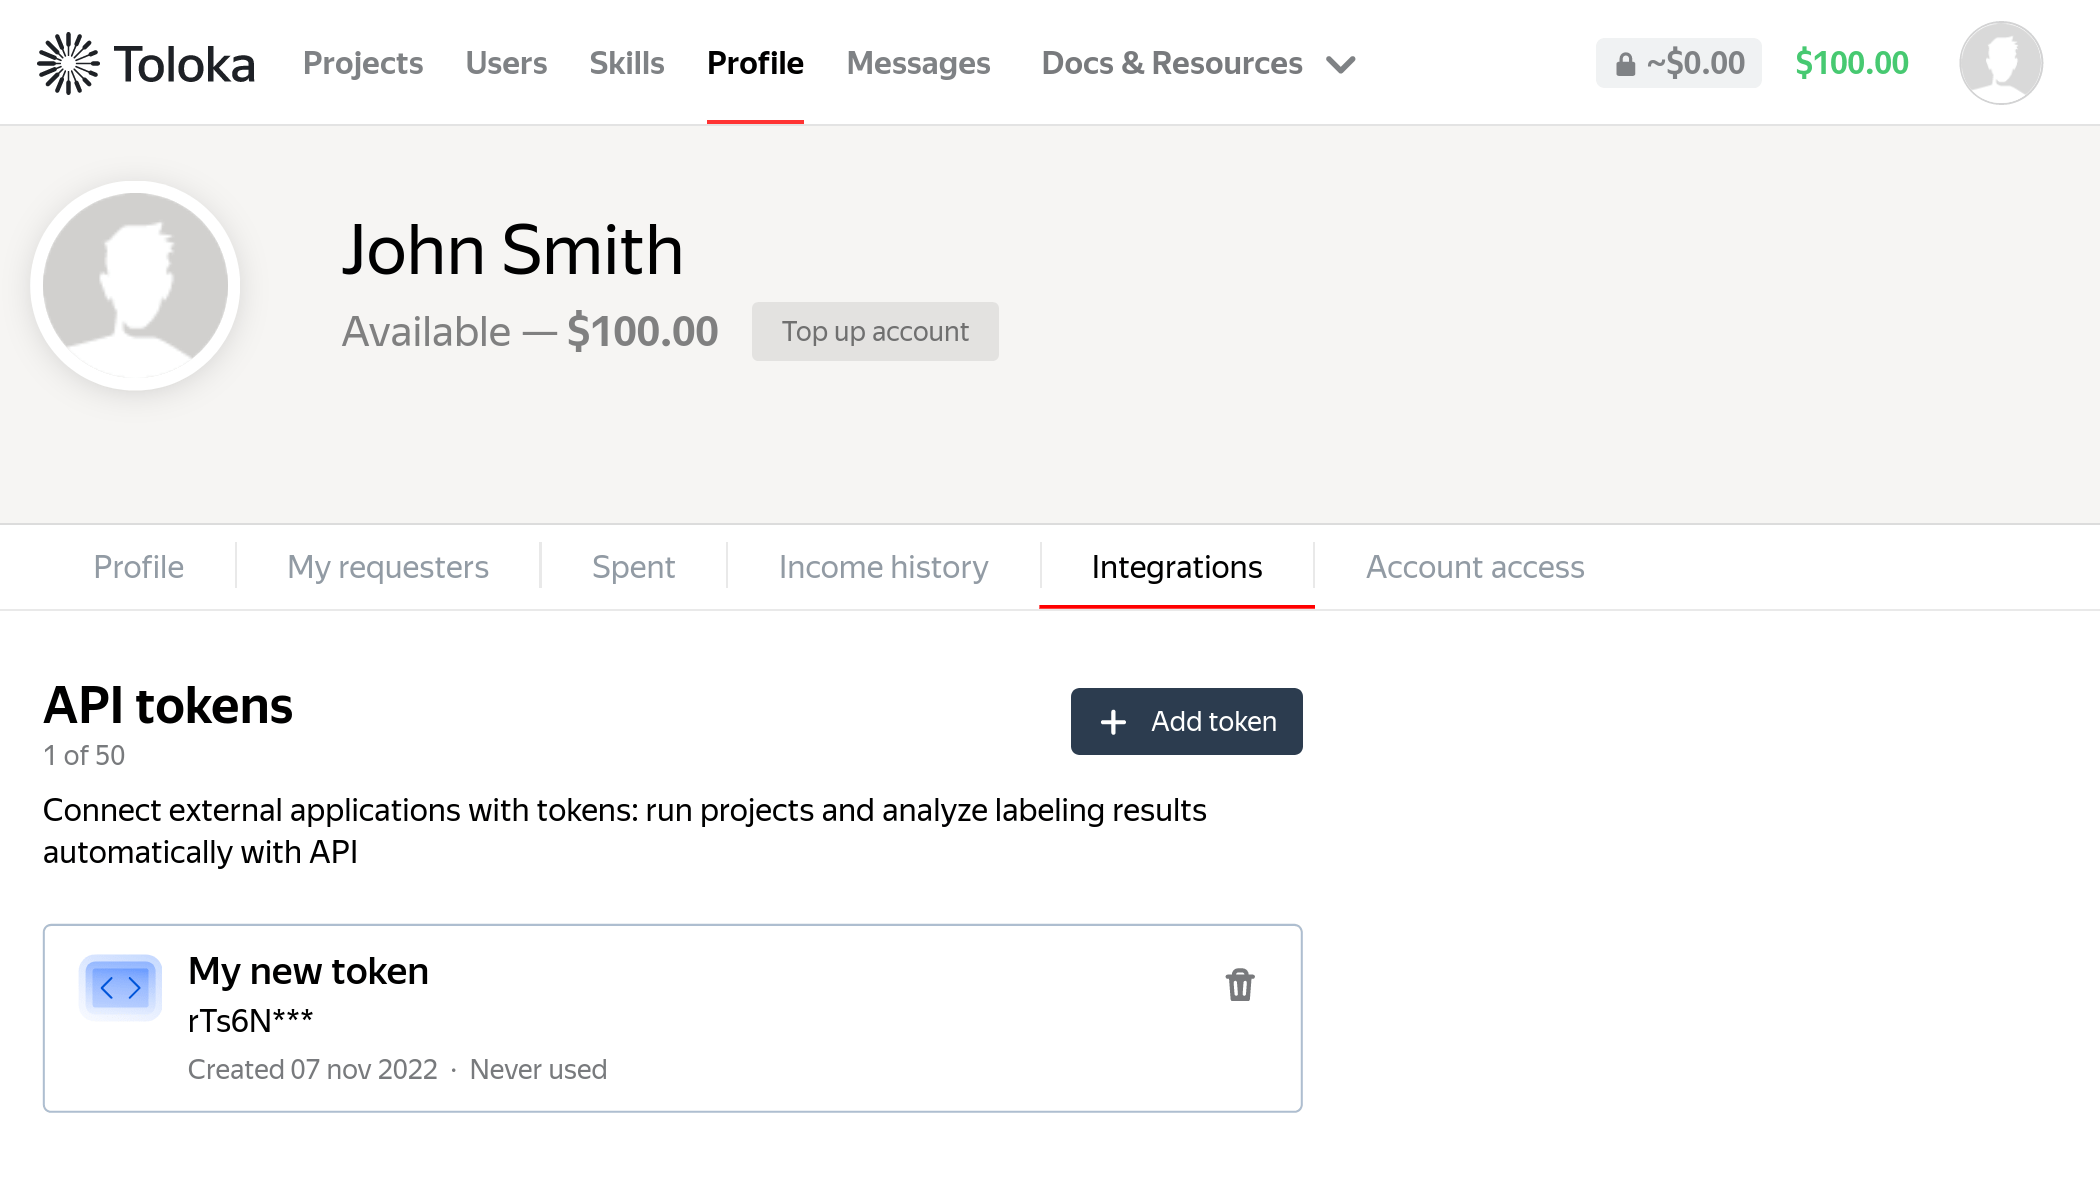
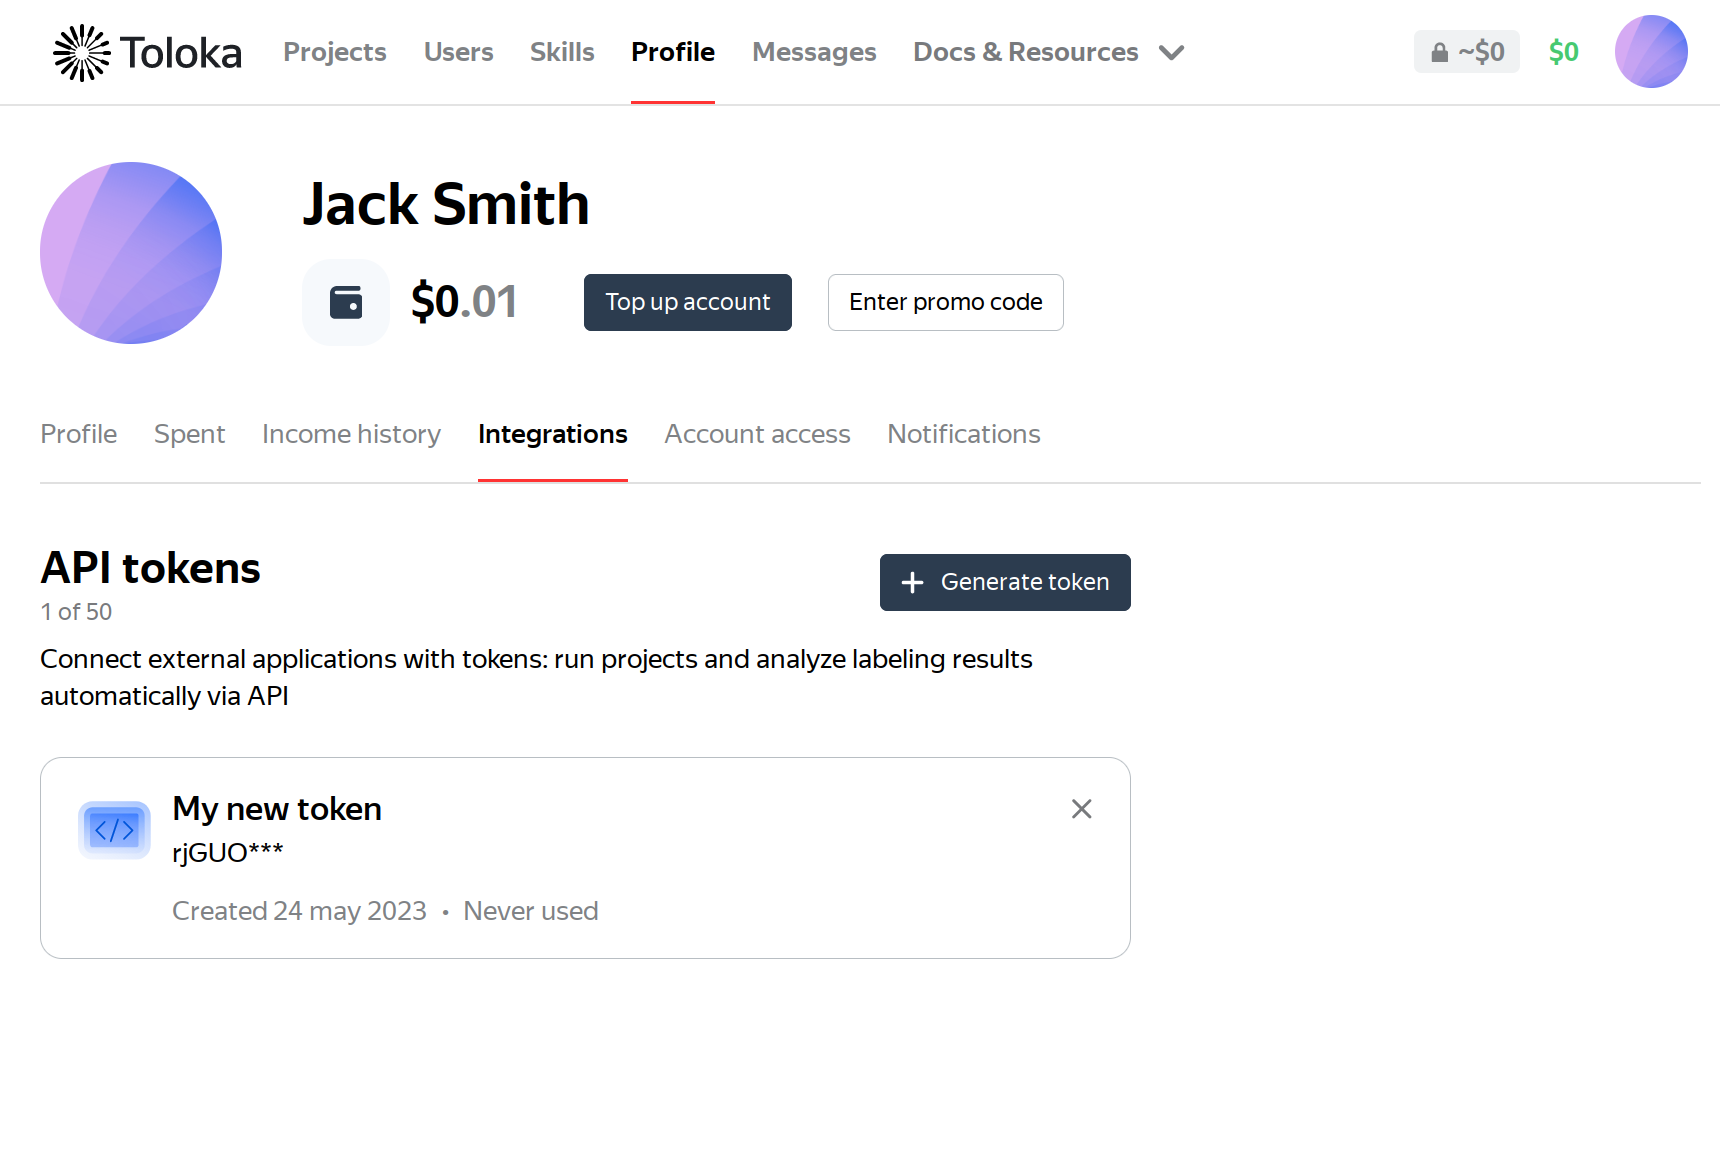
Social authorization for clients

diff --git a/en/guide/concepts/api-token.md b/en/guide/concepts/api-token.md
@@ -10,9 +10,9 @@ If your company uses SSO authentication method, each SSO user can generate their
 
 ## Generating tokens
 
-1. Go to **Profile → Integrations** (or click [this link](https://platform.toloka.ai/requester/profile/integration)). Click **![Plus sign](../_images/plus-sign.svg) Add token**:
+1. Go to **Profile → Integrations** (or click [this link](https://platform.toloka.ai/requester/profile/integration)). Click **![Plus sign](../_images/plus-sign.svg) Generate token**:
 
-    ![Add token](../_images/sso/add-token.png =700x)
+    ![Generate token](../_images/sso/add-token.png =700x)
 
 1. Enter a unique name or description for the token. Uniqueness is not required, but it will allow you to distinguish this token in case you have several ones. Click **Generate**:
 
